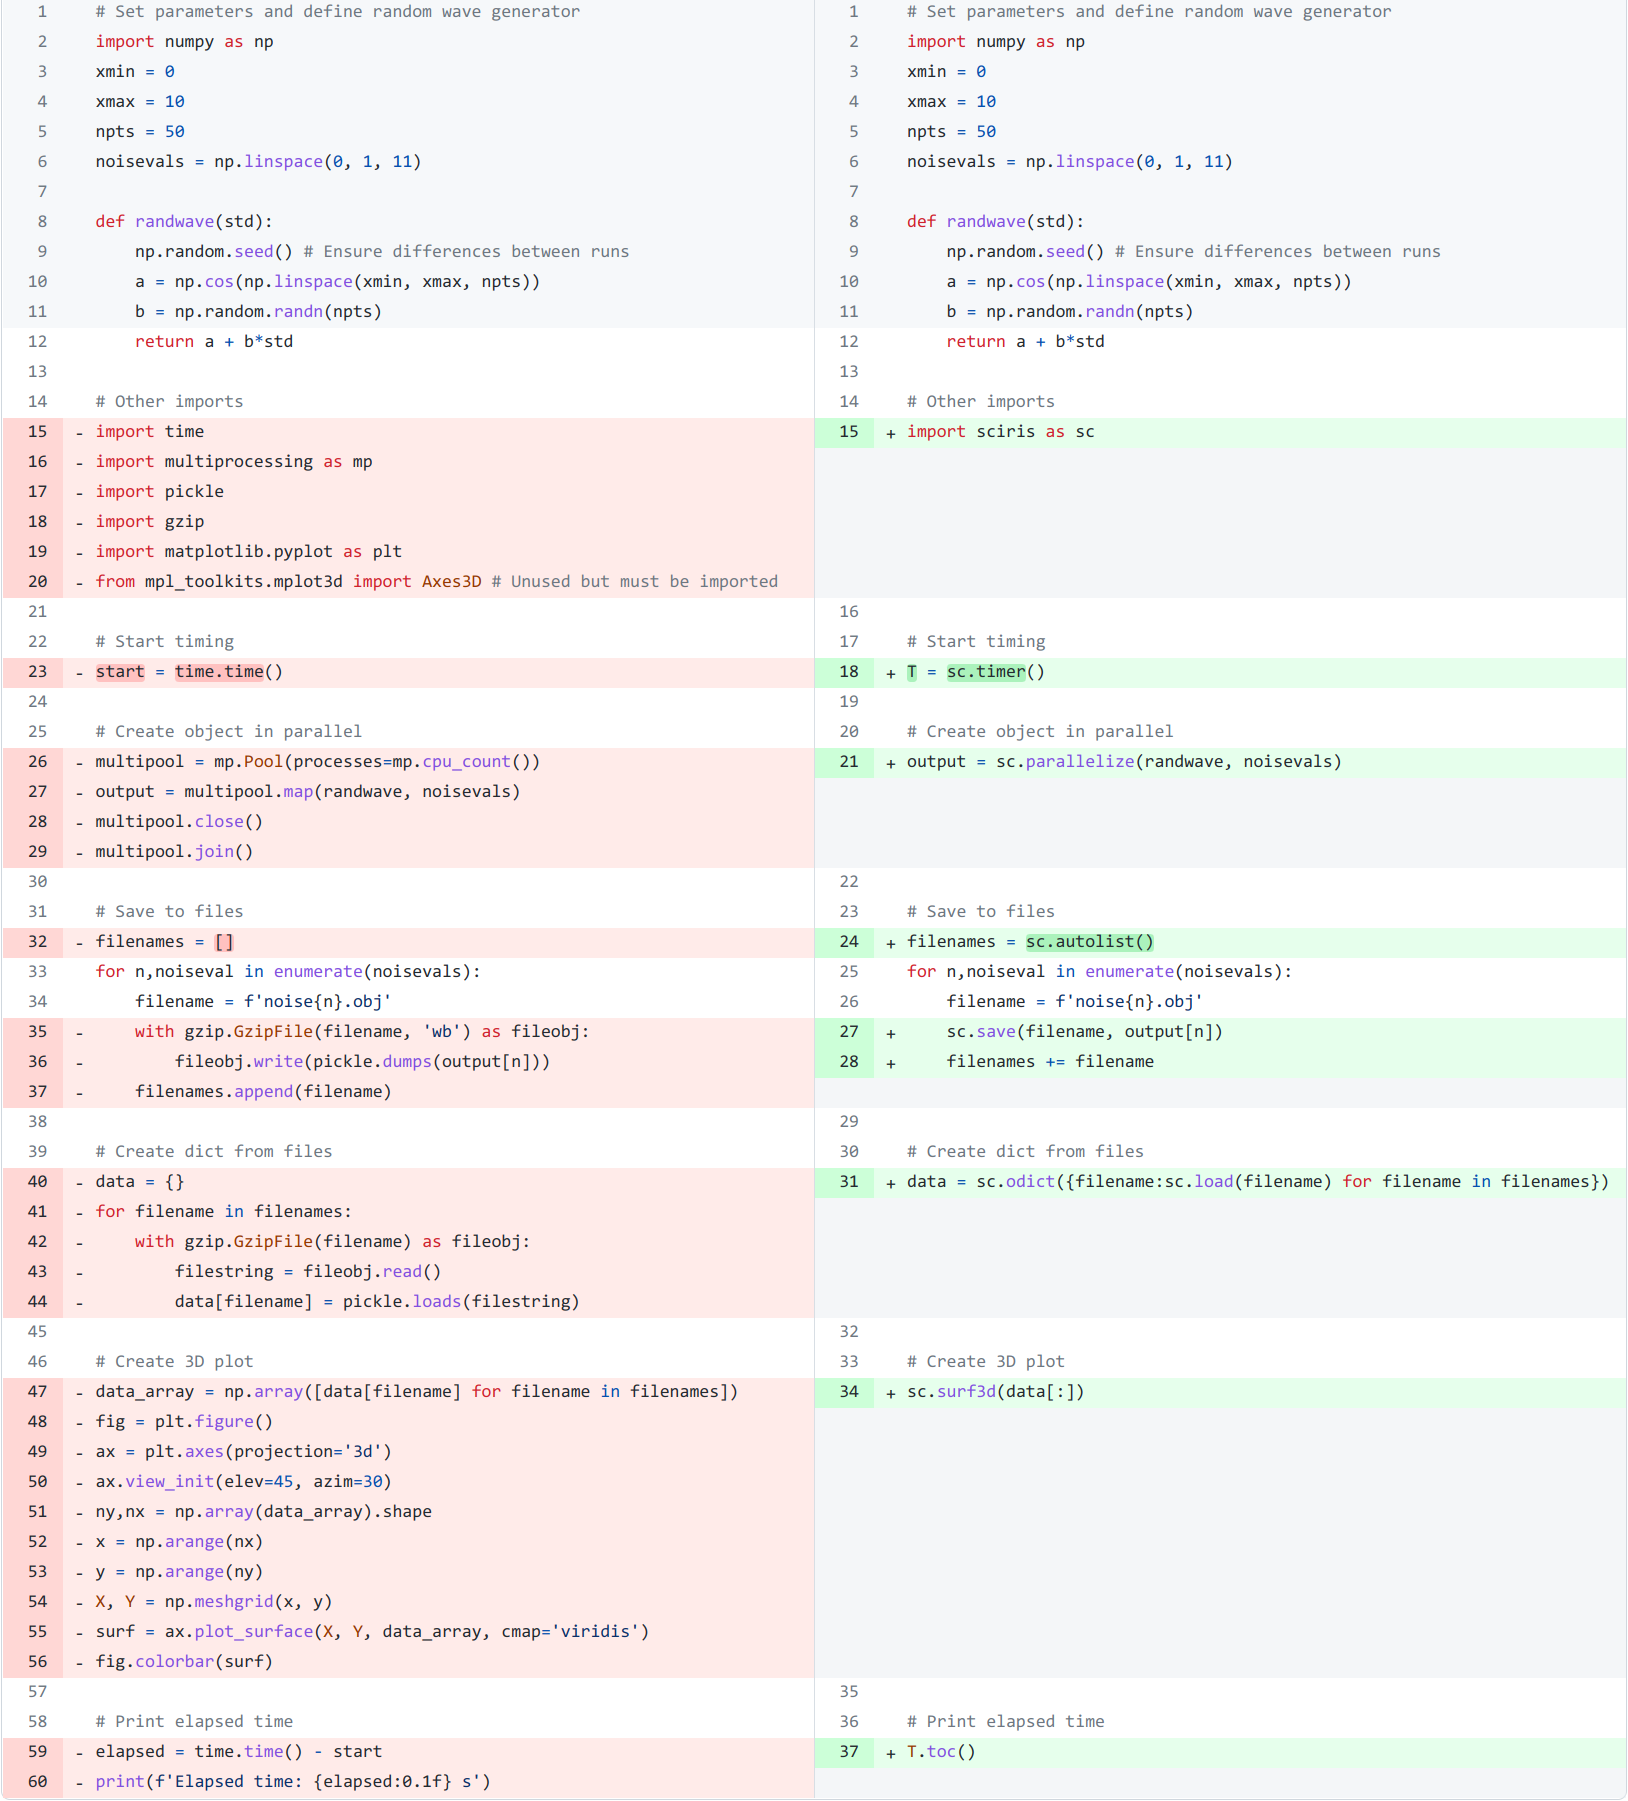
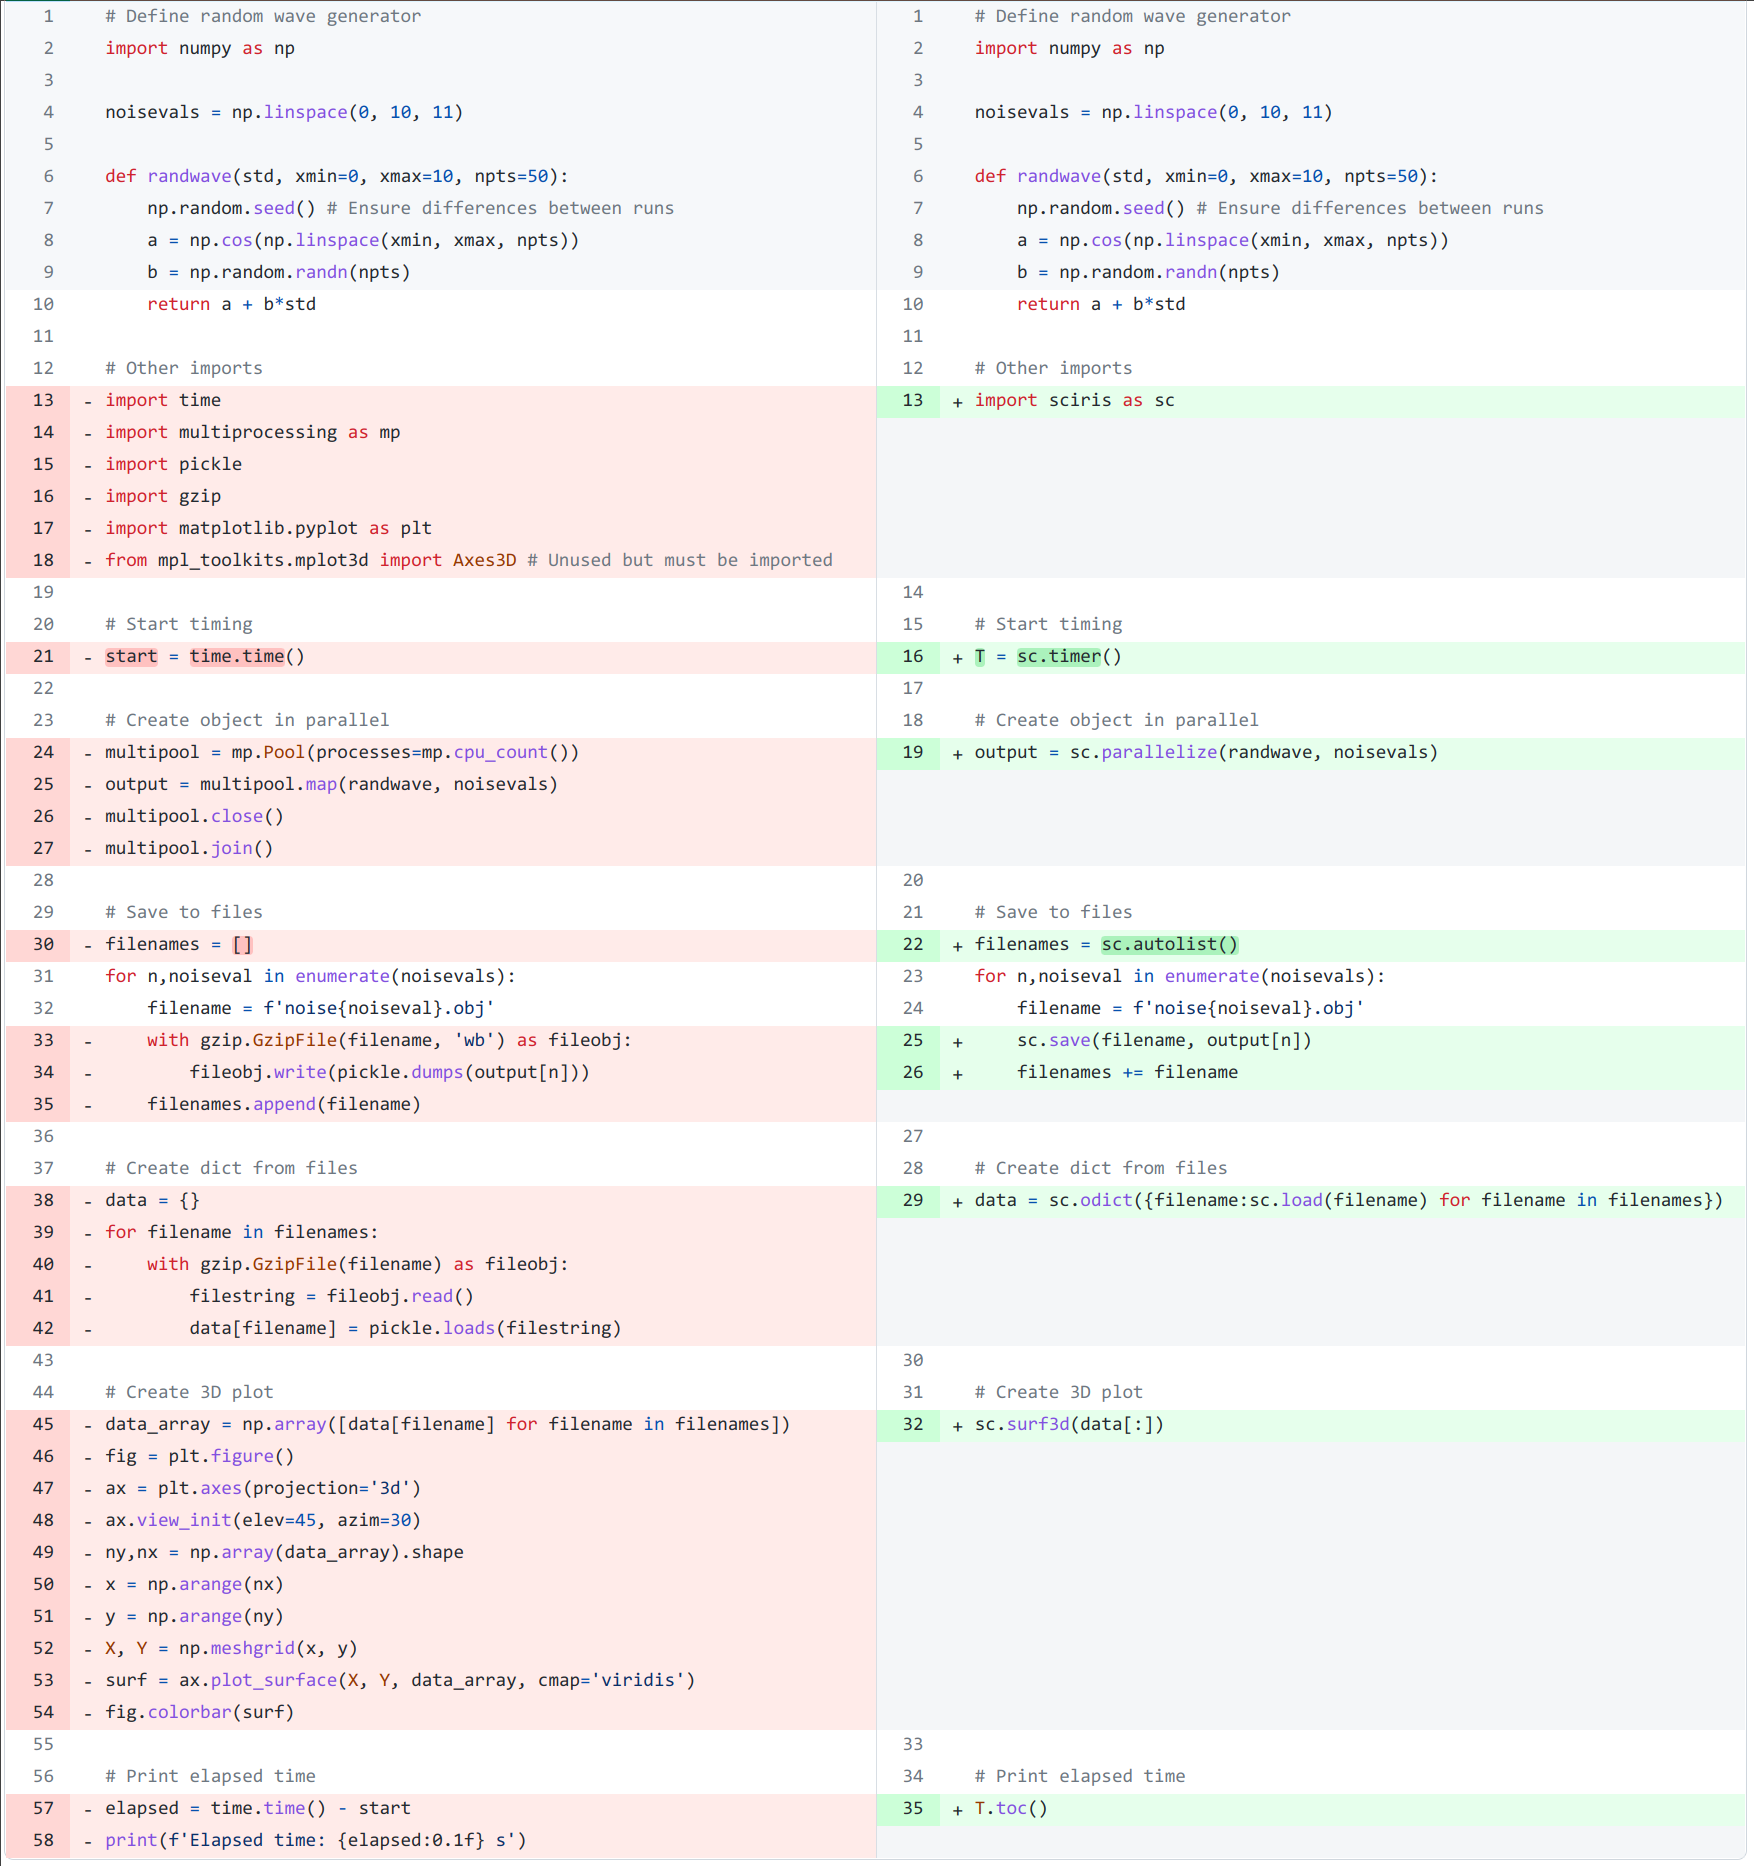
update

diff --git a/misc/showcase_diff.py b/misc/showcase_diff.py
@@ -1,8 +1,6 @@
 # Define random wave generator
 import numpy as np
 
-noisevals = np.linspace(0, 10, 11)
-
 def randwave(std, xmin=0, xmax=10, npts=50):
     np.random.seed() # Ensure differences between runs
     a = np.cos(np.linspace(xmin, xmax, npts))
@@ -20,16 +18,16 @@ from mpl_toolkits.mplot3d import Axes3D # Unused but must be imported
 # Start timing
 start = time.time()
 
-# Create object in parallel
+# Calculate output in parallel
 multipool = mp.Pool(processes=mp.cpu_count())
-output = multipool.map(randwave, noisevals)
+output = multipool.map(randwave, np.arange(11))
 multipool.close()
 multipool.join()
 
 # Save to files
 filenames = []
-for n,noiseval in enumerate(noisevals):
-    filename = f'noise{noiseval}.obj'
+for n in range(len(output)):
+    filename = f'noise{n}.obj'
     with gzip.GzipFile(filename, 'wb') as fileobj:
         fileobj.write(pickle.dumps(output[n]))
     filenames.append(filename)

diff --git a/misc/showcase_vanilla.py b/misc/showcase_vanilla.py
@@ -1,8 +1,6 @@
 # Define random wave generator
 import numpy as np
 
-noisevals = np.linspace(0, 10, 11)
-
 def randwave(std, xmin=0, xmax=10, npts=50):
     np.random.seed() # Ensure differences between runs
     a = np.cos(np.linspace(xmin, xmax, npts))
@@ -20,16 +18,16 @@ from mpl_toolkits.mplot3d import Axes3D # Unused but must be imported
 # Start timing
 start = time.time()
 
-# Create object in parallel
+# Calculate output in parallel
 multipool = mp.Pool(processes=mp.cpu_count())
-output = multipool.map(randwave, noisevals)
+output = multipool.map(randwave, np.arange(11))
 multipool.close()
 multipool.join()
 
 # Save to files
 filenames = []
-for n,noiseval in enumerate(noisevals):
-    filename = f'noise{noiseval}.obj'
+for n in range(len(output)):
+    filename = f'noise{n}.obj'
     with gzip.GzipFile(filename, 'wb') as fileobj:
         fileobj.write(pickle.dumps(output[n]))
     filenames.append(filename)

diff --git a/misc/showcase_sciris.py b/misc/showcase_sciris.py
@@ -1,8 +1,6 @@
 # Define random wave generator
 import numpy as np
 
-noisevals = np.linspace(0, 10, 11)
-
 def randwave(std, xmin=0, xmax=10, npts=50):
     np.random.seed() # Ensure differences between runs
     a = np.cos(np.linspace(xmin, xmax, npts))
@@ -15,15 +13,11 @@ import sciris as sc
 # Start timing
 T = sc.timer()
 
-# Create object in parallel
-output = sc.parallelize(randwave, noisevals)
+# Calculate output in parallel
+output = sc.parallelize(randwave, np.arange(11))
 
 # Save to files
-filenames = sc.autolist()
-for n,noiseval in enumerate(noisevals):
-    filename = f'noise{noiseval}.obj'
-    sc.save(filename, output[n])
-    filenames += filename
+filenames = [sc.save(f'noise{i}.obj', output[i]) for i in range(len(output))]
 
 # Create dict from files
 data = sc.odict({filename:sc.load(filename) for filename in filenames})
